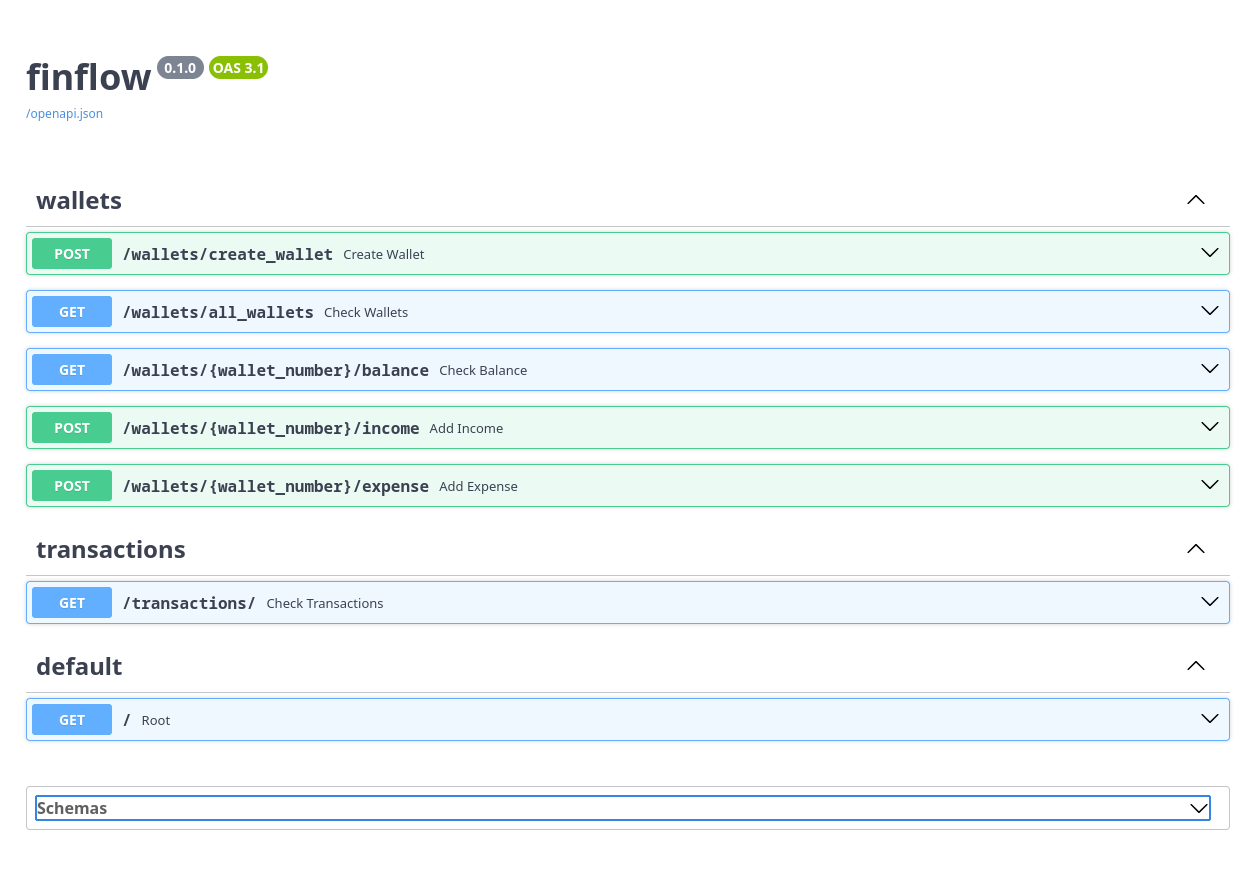
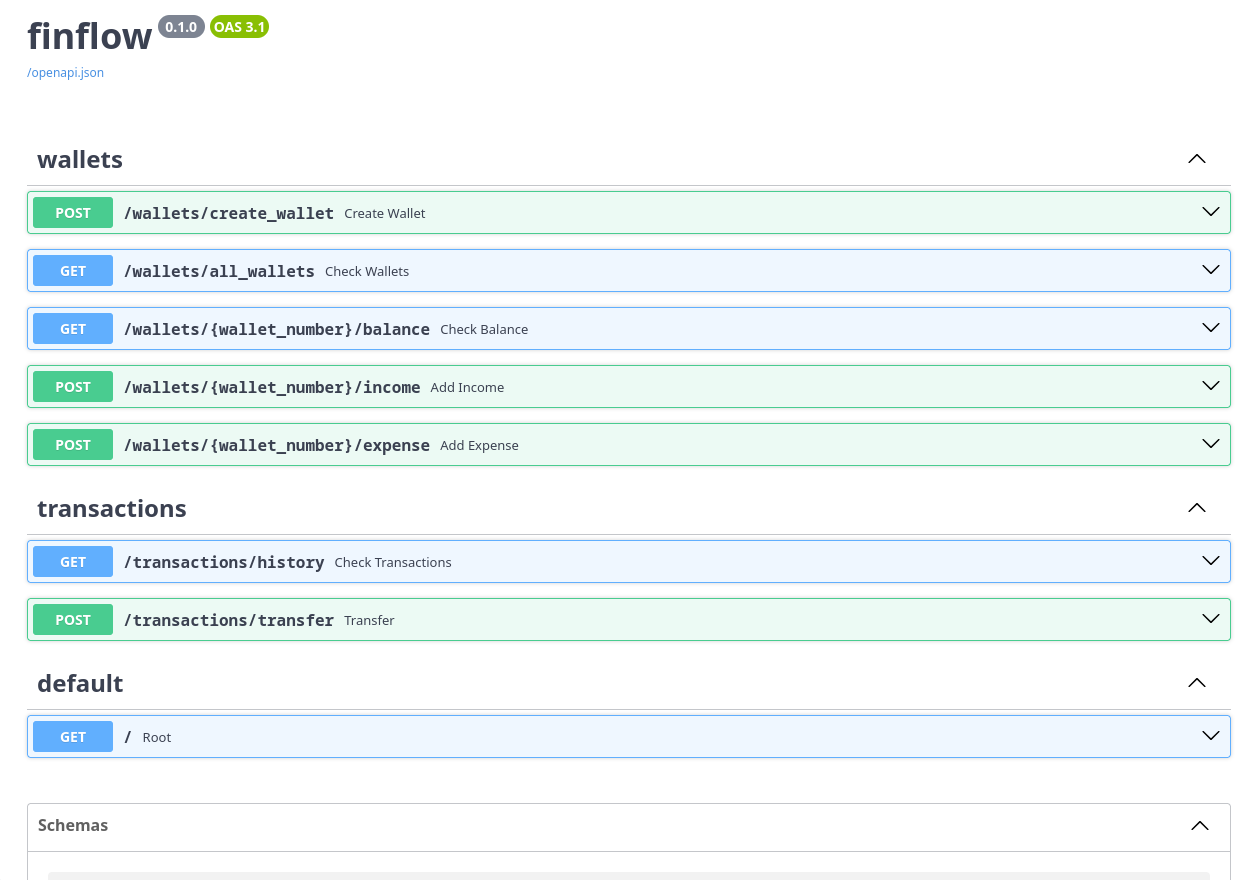
add transfers between wallets, multi-level architecture

Changed region(s): [[0.0, 0.0, 1.0, 0.87], [0.0312, 0.901, 1.0, 0.9632], [0.9688, 0.8078, 1.0, 0.8389]]

diff --git a/app/services/transactions.py b/app/services/transactions.py
@@ -1,9 +1,74 @@
 from sqlalchemy.orm import Session
 from sqlalchemy import select
-from ..database.connection import TransactionsHistoryORM
+
+from ..database.connection import TransactionsHistoryORM, WalletsORM
+from decimal import Decimal
+from fastapi import HTTPException
+import uuid
 
 class WalletService:
     @staticmethod
     def check_transactions(db: Session):
         transactions = db.scalars(select(TransactionsHistoryORM)).all()
         return transactions
+
+    @staticmethod
+    def transfer(from_wallet_number: str, to_wallet_number: str, amount: Decimal, description: str, db: Session):
+        from_statement = (
+            select(WalletsORM)
+            .where(WalletsORM.wallet_number == from_wallet_number)
+            .with_for_update()
+        )
+
+        to_statement = (
+            select(WalletsORM)
+            .where(WalletsORM.wallet_number==to_wallet_number)
+            .with_for_update()
+        )
+
+        if from_wallet_number < to_wallet_number:   # Защита от Deadlock путём блокирования меньшего номера кошелька
+            from_wallet = db.scalars(from_statement).one_or_none()
+            to_wallet = db.scalars(to_statement).one_or_none()
+        else:
+            to_wallet = db.scalars(to_statement).one_or_none()
+            from_wallet = db.scalars(from_statement).one_or_none()
+
+        if from_wallet is None:
+            raise HTTPException(404, f"Wallet '{from_wallet_number}' not found")
+        elif to_wallet is None:
+            raise HTTPException(404, f"Wallet '{to_wallet_number}' not found")
+
+        if from_wallet.balance < amount:
+            raise HTTPException(400, f"Insufficient funds for this operation")
+
+        from_wallet.balance -= amount
+        to_wallet.balance += amount
+
+        from_wallet_transaction_log = TransactionsHistoryORM(
+            wallet_id=from_wallet.id,
+            status=f"add expense, transfer out {to_wallet_number}",
+            amount=-amount,
+            description=description,
+            balance=from_wallet.balance
+        )
+
+        to_wallet_transaction_log = TransactionsHistoryORM(
+            wallet_id=to_wallet.id,
+            status=f"add income, transfer in {from_wallet_number}",
+            amount=amount,
+            description=description,
+            balance=to_wallet.balance
+        )
+
+        db.add(from_wallet_transaction_log)
+        db.add(to_wallet_transaction_log)
+        db.commit()
+
+        return {
+            "from_wallet_id": from_wallet.id,
+            "to_wallet_id": to_wallet.id,
+            "from_wallet_number": from_wallet_number,
+            "to_wallet_number": to_wallet_number,
+            "amount": amount,
+            "description": description,
+        }

diff --git a/app/services/wallets.py b/app/services/wallets.py
@@ -21,10 +21,12 @@ class WalletService:
         db.commit()
         return wallet
 
+    @staticmethod
     def check_wallets(db: Session):
         wallets_from_db = db.scalars(select(WalletsORM)).all()
         return wallets_from_db
 
+    @staticmethod
     def check_balance(wallet_number: str, db: Session):
         statement = (  # Синтаксический сахар
             select(WalletsORM)
@@ -36,6 +38,7 @@ class WalletService:
             raise HTTPException(404, f"Wallet '{wallet_number}' not found")
         return wallet.balance
 
+    @staticmethod
     def add_income(wallet_number: str, request: OperationRequest, db: Session):
         statement = (  # Синтаксический сахар
             select(WalletsORM)
@@ -64,12 +67,13 @@ class WalletService:
         return {
             "status": f"Credited {request.amount}",
             "wallet_id": str(wallet.id),
-            "amount": request.amount,
+            "amount": -request.amount,
             "description": request.description,
             "Total amount": wallet.balance,
             "date": transaction_log.date.isoformat(),
         }
 
+    @staticmethod
     def add_expense(wallet_number: str, request: OperationRequest, db: Session):
         statement = (  # Синтаксический сахар
             select(WalletsORM)
@@ -89,7 +93,7 @@ class WalletService:
         transaction_log = TransactionsHistoryORM(
             wallet_id=wallet.id,
             status="add expense",
-            amount=request.amount,
+            amount=-request.amount,
             description=request.description,
             balance=wallet.balance
         )
@@ -101,7 +105,7 @@ class WalletService:
         return {
             "status": f"Credited {request.amount}",
             "wallet_id": str(wallet.id),
-            "amount": request.amount,
+            "amount": -request.amount,
             "description": request.description,
             "Total amount": wallet.balance,
             "date": transaction_log.date.isoformat(),

diff --git a/app/routers/transactions.py b/app/routers/transactions.py
@@ -1,14 +1,25 @@
 from fastapi import APIRouter, Depends
 from sqlalchemy.orm import Session
-
+from ..schemas.transactions import TransferResponse, TransferRequest
 from app.services.transactions import WalletService
 from ..database.connection import get_db
+from decimal import Decimal
 
 router = APIRouter(
     prefix="/transactions",
     tags=["transactions"]
 )
 
-@router.get("/")
+@router.get("/history")
 def check_transactions(db: Session = Depends(get_db)):
     return WalletService.check_transactions(db=db)
+
+@router.post("/transfer", response_model=TransferResponse, status_code=201)
+def transfer(request: TransferRequest, db: Session = Depends(get_db)):
+    return WalletService.transfer(
+        from_wallet_number=request.from_wallet_number,
+        to_wallet_number=request.to_wallet_number,
+        amount=request.amount,
+        description=request.description,
+        db=db
+    )

diff --git a/app/schemas/transactions.py b/app/schemas/transactions.py
@@ -1,0 +1,17 @@
+import uuid
+from decimal import Decimal
+from pydantic import BaseModel, Field
+
+class TransferResponse(BaseModel):
+    from_wallet_id: uuid.UUID
+    to_wallet_id: uuid.UUID
+    from_wallet_number: str
+    to_wallet_number: str
+    amount: Decimal = Field(gt=0, le=100_000)
+    description: str | None = None
+
+class TransferRequest(BaseModel):
+    from_wallet_number: str
+    to_wallet_number: str
+    amount: Decimal = Field(gt=0, le=100_000)
+    description: str | None = None

diff --git a/README.md b/README.md
@@ -24,7 +24,7 @@ Built as a portfolio project to demonstrate backend development skills.
 
 ## ✨ Features
 
-- **Wallet Management** — create wallets with unique 16-digit card numbers
+- **Wallet Management** — create wallets with unique 16-digit wallet numbers
 - **Balance Check** — get current balance by card number  
 - **Income Transactions** — deposit funds with description
 - **Expense Transactions** — withdraw funds with insufficient balance protection
@@ -32,6 +32,7 @@ Built as a portfolio project to demonstrate backend development skills.
 - **Concurrency Safety** — SELECT FOR UPDATE prevents race conditions
 - **Transaction History** — all operations stored in PostgreSQL
 - **Docker Ready** — deploy with single command
+- - **Layered Architecture** — routers, services, schemas separated
 
 ## 🛠 Tech Stack
 
@@ -60,11 +61,12 @@ finflow/
 │   │   └── transactions.py
 │   ├── schemas/
 │   │   ├── __init__.py
+│   │   ├── transactions.py
 │   │   └── wallets.py
 │   ├── services/
 │   │   ├── __init__.py
-│   │   ├── wallets.py
-│   │   └── transactions.py
+│   │   ├── transactions.py
+│   │   └── wallets.py
 │   └── utils/
 │       ├── __init__.py
 │       └── luhn.py
@@ -124,9 +126,10 @@ docker compose up --build
 | `POST` | `/wallets/{wallet_number}/expense`    | Add expense           | 200    |
 
 ### Transactions
-| Method | Endpoint         | Description               | Status |
-|--------|------------------|---------------------------|--------|
-| `GET`  | `/transactions`  | Check transaction history | 200    |
+| Method | Endpoint                 | Description               | Status |
+|--------|--------------------------|---------------------------|--------|
+| `GET`  | `/transactions`          | Check transaction history | 200    |
+| `POST` | `/transactions/transfer` | transfers between wallets | 201    |
 
 ### Request & Response Examples
 
@@ -301,6 +304,30 @@ docker compose up --build
   }
 ]
 ```
+</details> 
+<details>
+<summary>GET /transactions/transfer</summary>
+
+**Response `201`:**
+
+```json
+{
+  "from_wallet_id": "550e8400-e29b-41d4-a716-446655440000",
+  "to_wallet_id": "661f9511-f30c-52e5-b827-557766551111",
+  "from_wallet_number": "4532015112830366",
+  "to_wallet_number": "7319876294051093",
+  "amount": "200",
+  "description": "coffee"
+}
+```
+**Response `400`:**
+	
+```json
+{
+  "detail": "Insufficient funds for this operation"
+}
+```
+</details>
 
 ## Database Schema
 
